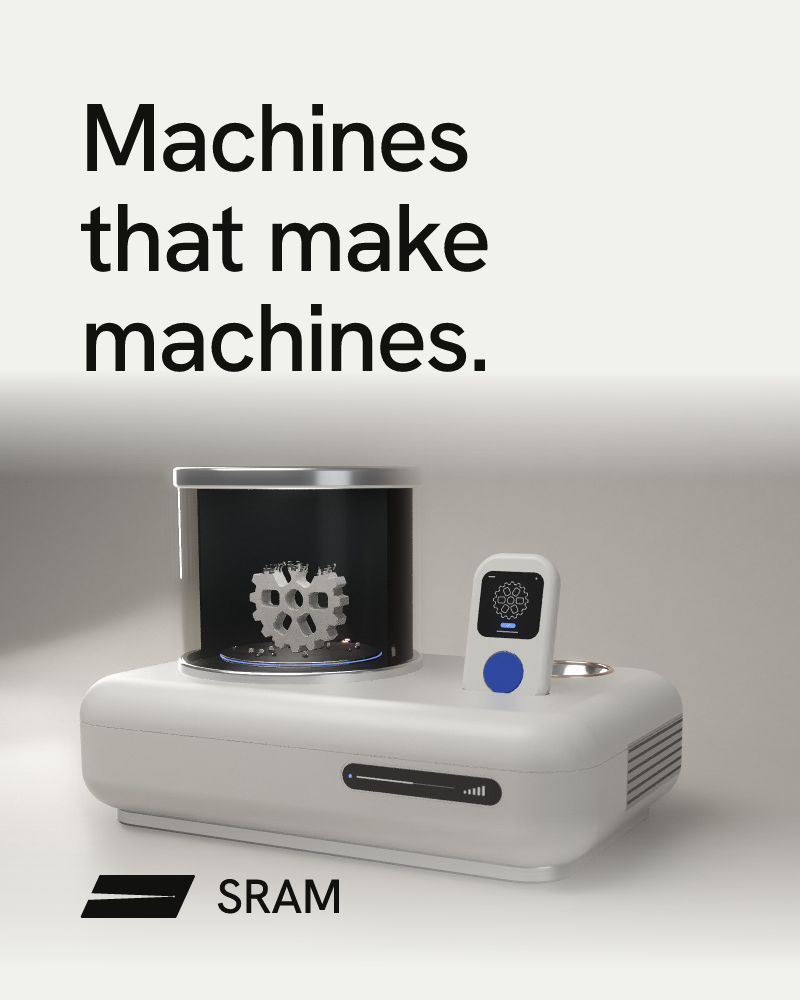
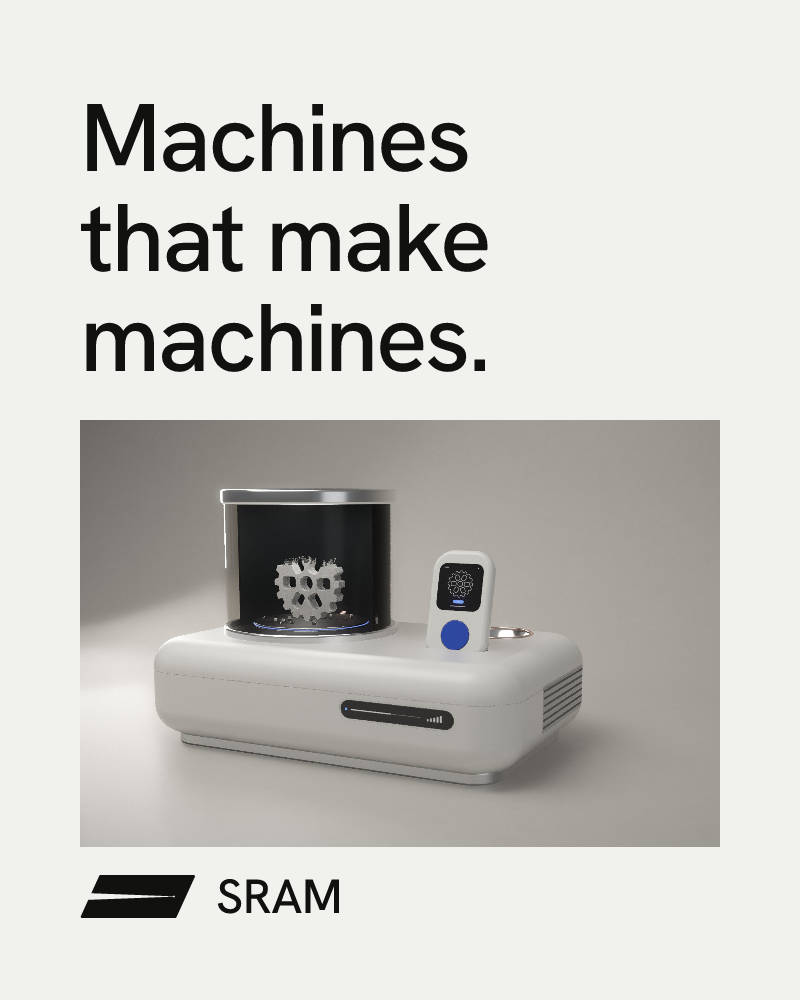
Remove faded image treatment from SRAM project cards

diff --git a/scripts/generate-cards.tsx b/scripts/generate-cards.tsx
@@ -374,7 +374,7 @@ for (const mobile of [false, true]) {
         <span>machines.</span>
       </div>
       {/* eslint-disable-next-line @next/next/no-img-element */}
-      <img src={SRAM.hero} alt="" width={900} height={600} style={{ position: "absolute", left: -24, top: mobile ? 370 : 330, maskImage: "linear-gradient(to bottom, transparent, black 18%, black 74%, transparent)" }} />
+      <img src={SRAM.hero} alt="" width={640} height={427} style={{ position: "absolute", left: 80, top: mobile ? 420 : 380 }} />
       <div style={{ display: "flex", alignItems: "center", position: "absolute", left: 80, bottom: 72, gap: 20 }}>
         <svg width={mobile ? 116 : 86} height={mobile ? 43 : 32} viewBox="0 0 915 340">
           <path fill={SRAM.ink} d={SRAM.mark} />
